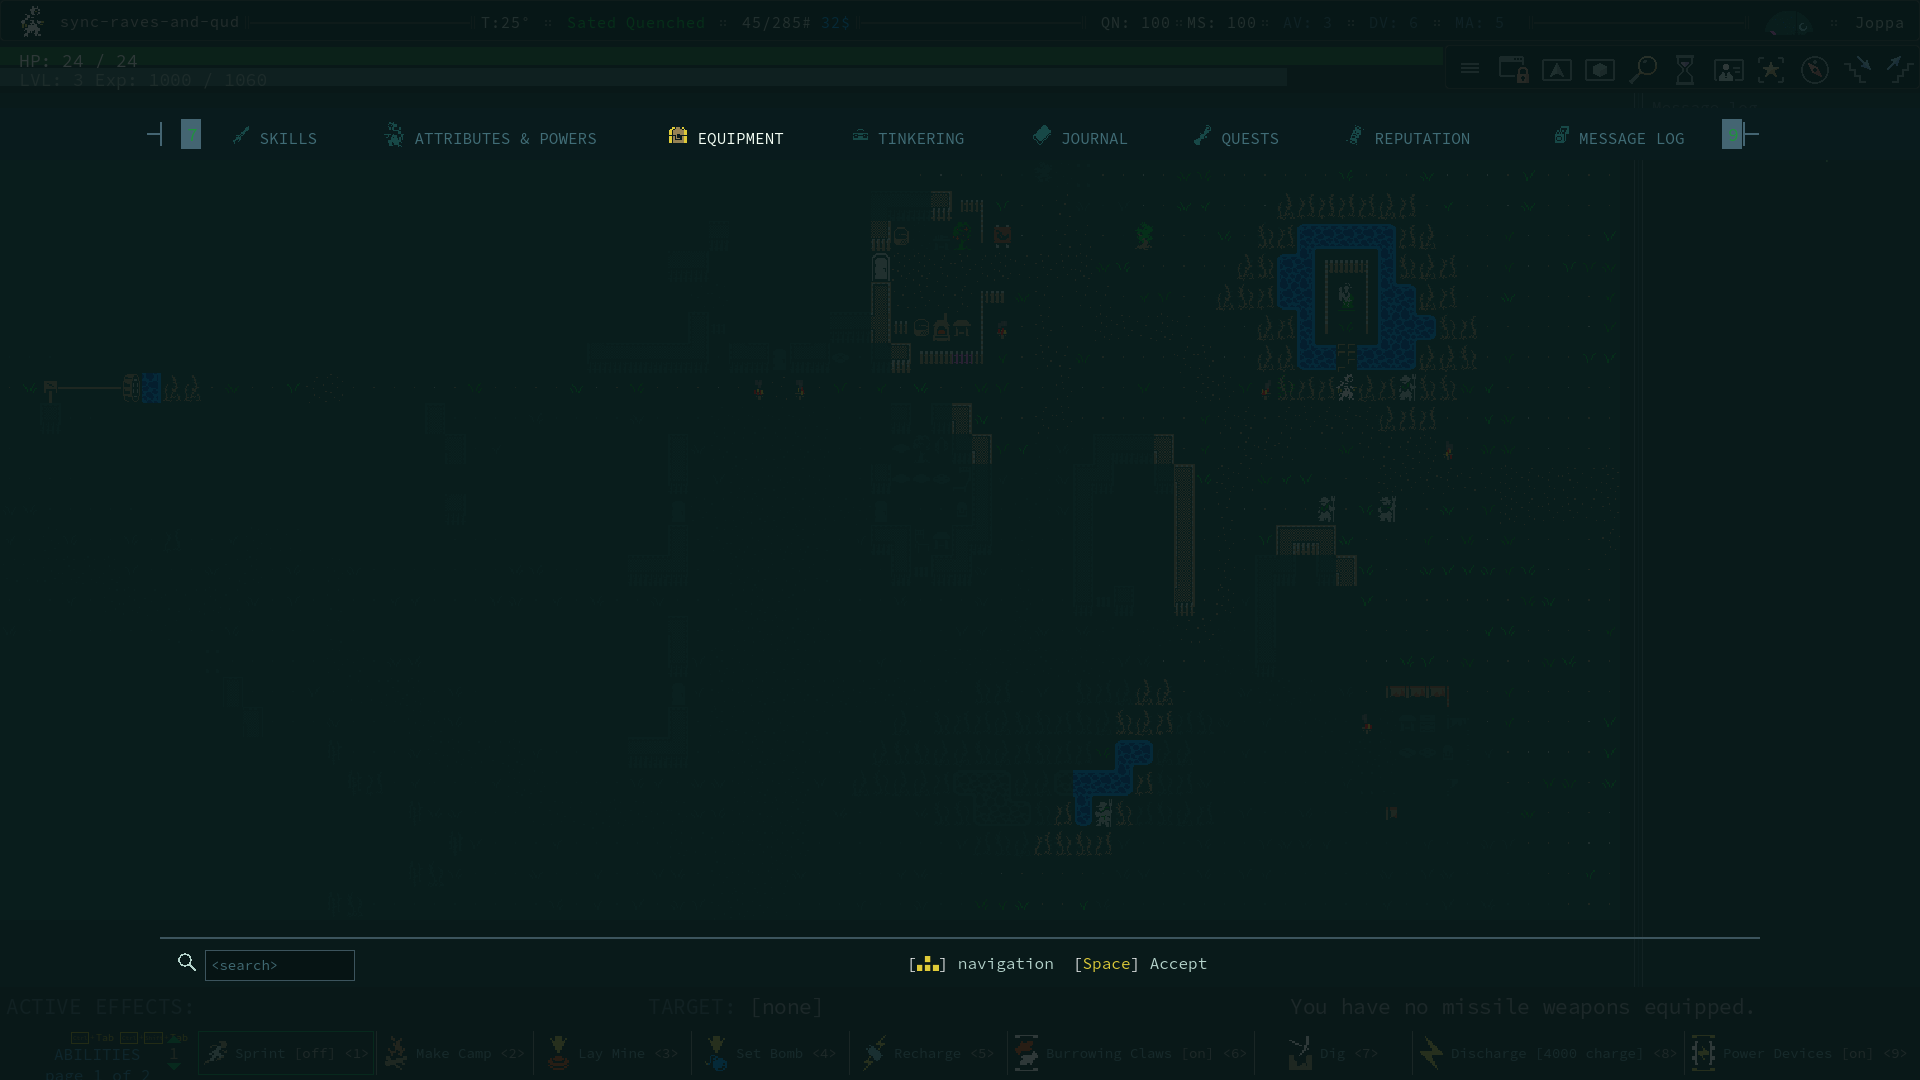
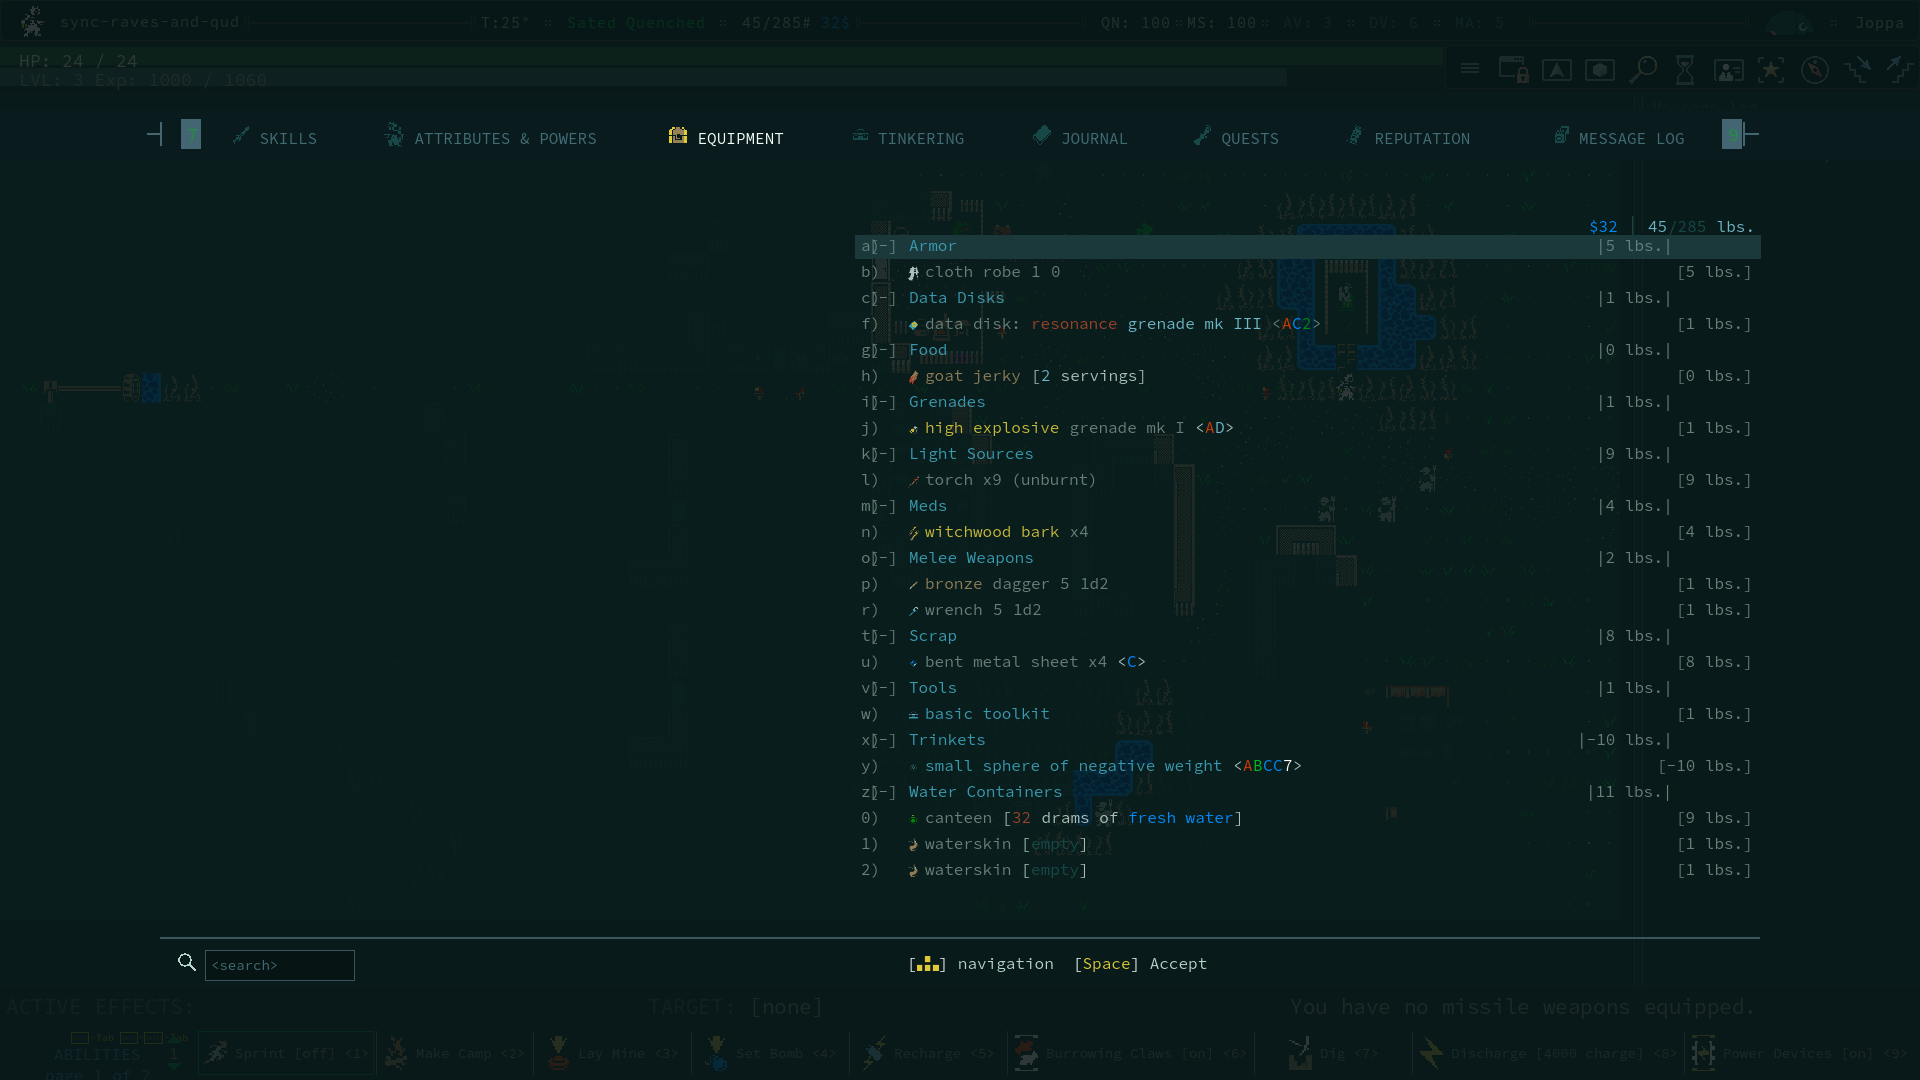
Inventory pane renders (7.49 mean-diff on the list area)
The "blank pane" was a STALE BUILD, not a code fault: instrumenting
setup/_relayout/_draw_rows showed all three firing with 25 rows and a
correct content size on a fresh build, and the list drew immediately.
Lesson recorded — verify which build is actually running before
debugging the code (the same rule the mod's Protocol.Build exists for).

The list now matches Qud closely: hotkey letters agree exactly with the
reference including Qud's reserved-letter skips (a, b, c, f, g, …),
category rows carry |n lbs.| and item rows [n lbs.] against the right
edges, tiles and markup-coloured names render, and the $32 | 45/285
header matches. Row pitch verified at 26px with the first row landing
on Qud's y240 after a 5px offset fix.

Known gaps, recorded in the plan: worn armour exports as
"{{b|♦}}1 {{K|⇥}}0" (GameObject.DisplayName returns only the AV/DV
badges for it, so the noun is missing — needs the right accessor), the
paper doll is still to come, and the header sits ~2px off.

diff --git a/docs/status-screens-plan.md b/docs/status-screens-plan.md
@@ -72,12 +72,14 @@ always visible in the bar).
    (markup intact), item weight `[n lbs.]`, category weight `|n lbs.|`, header `${GetFreeDrams()}` +
    `carried/max` (verified $32, 45/285 against the reference). NOTE: `RenderForUI` returns a
    RenderEvent — read its `_Tile`/`ColorString`/`DetailColor` FIELDS, not the Renderable accessors.
-   `StatusPaneInventory.gd` is wired into the tab but RENDERS BLANK (tab bar, scrim and hints are
-   right; the list area is empty) — same symptom class as the skills pane's first pass, unresolved:
-   instrument `_load_inventory`/`setup` next session, prime suspect is a runtime error in
-   `_relayout` (the `row.merge(it)` over a JSON Variant) killing the draw. The PAPER DOLL (left half:
-   body slots) is a separate slice after that; hotkey letters currently skip d/e/q/s, measured off
-   the reference and still to be confirmed against Qud's HotkeySpread.
+   `StatusPaneInventory.gd` RENDERS (list area **7.49 mean-diff**): letters, category rows with
+   `[-]`/`[+]` + `|n lbs.|`, item tiles + names + `[n lbs.]`, and the `$drams | carried/max` header.
+   The earlier "blank pane" was a STALE BUILD, not a code fault — instrumentation showed setup/rows/
+   draw all firing correctly on a rebuild (lesson: verify the running build before debugging the
+   code). Hotkey letters match Qud's spread exactly on this character, including the d/e/q/s skips.
+   OPEN: (1) worn armour exports as `{{b|♦}}1 {{K|⇥}}0` — `GameObject.DisplayName` returns only the
+   AV/DV badges for it, so "cloth robe" is missing; find the right name accessor. (2) The PAPER DOLL
+   (left half: body slots) is the next slice. (3) Header sits ~2px off (13.3 in that band).
 8. **Tinkering** — most complex (bits, recipes, modes).
 
 Interactivity (buy mutation, equip, tinker, quest tracking) follows the menus-V3 law:
